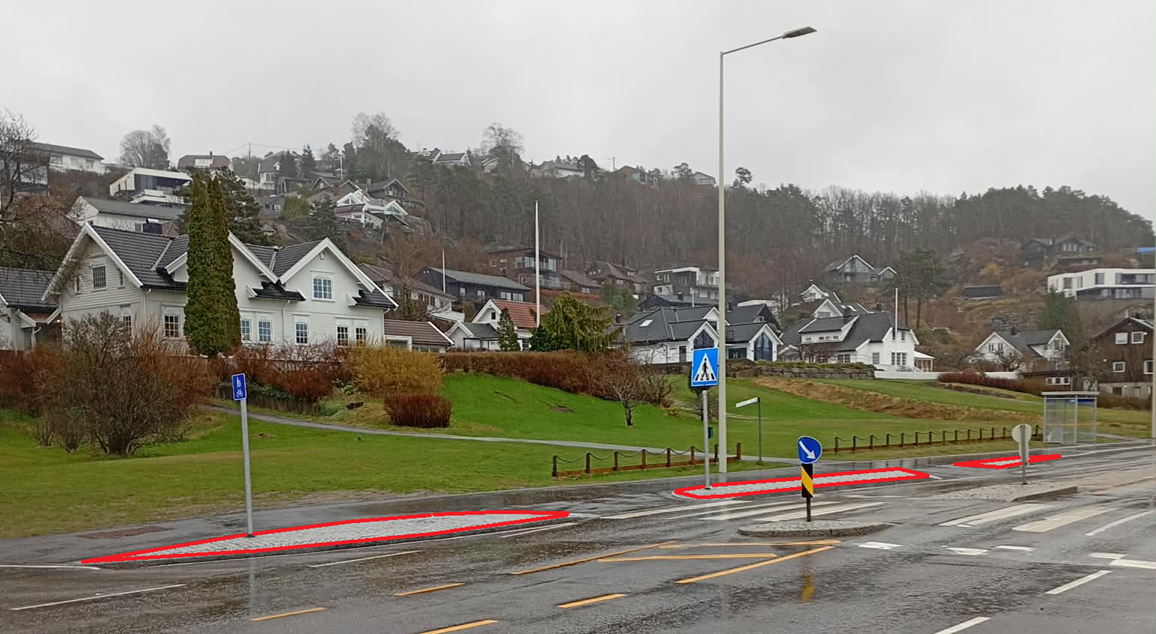
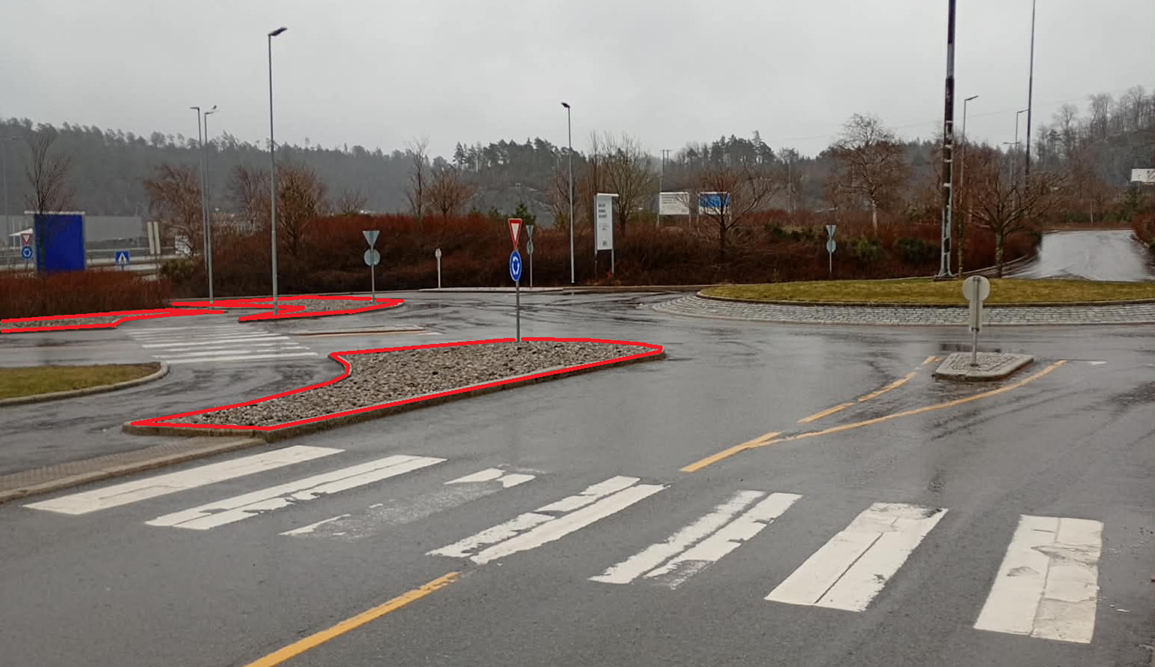
Endret bilde og slettet avsnitt i Vedlegg
Endret bilde for illustrasjon av trafikkøy. Sletta avsnitt om endring av TYPEVEG for VegGåendeOgSyklende og VegKjørende, da disse utsettes.

diff --git a/registreringsinstrukser/vedlegg/Vedlegg_Fotogrammetrisk_FKB_2026.html b/registreringsinstrukser/vedlegg/Vedlegg_Fotogrammetrisk_FKB_2026.html
@@ -487,8 +487,6 @@ body.book #toc,body.book #preamble,body.book h1.sect0,body.book .sect1>h2{page-b
 <ul class="sectlevel3">
 <li><a href="#_presisering_om_henvisninger_til_elveg_2">2.6.1. Presisering om henvisninger til Elveg</a></li>
 <li><a href="#_presisering_for_objekttypen_trafikkøy">2.6.2. Presisering for objekttypen Trafikkøy</a></li>
-<li><a href="#_presisering_for_objekttypen_veggåendeogsyklende">2.6.3. Presisering for objekttypen VegGåendeOgSyklende</a></li>
-<li><a href="#_presisering_for_objekttypen_vegkjørende">2.6.4. Presisering for objekttypen VegKjørende</a></li>
 </ul>
 </li>
 <li><a href="#Elveg">2.7. NVDB Vegnett Pluss</a>
@@ -740,18 +738,6 @@ For fotogrammetriske registreringsinstrukser som ikke ble revidert 2025-01-01 er
 <div class="title">Figur 7. Eksempel på arealer som ikke skal registreres som Trafikkøy.</div>
 </div>
 </div>
-<div class="sect3">
-<h4 id="_presisering_for_objekttypen_veggåendeogsyklende">2.6.3. Presisering for objekttypen VegGåendeOgSyklende</h4>
-<div class="paragraph">
-<p>I kapittel 3.3 Objekttype: VegGåendeOgSyklende presiseres det at egenskapen <em>typeveg</em> skal samsvare med kodeliste for <em>typeveg</em> i NVDB Vegnett Pluss. For VegGåendeOgSyklende betyr dette at <em>typeveg gangSykkel</em> er endret til <em>gsv</em> og <em>typeveg sykkel</em> er endret til <em>sv</em>, samt at <em>sfelt</em> (sykkelfelt) er lagt til kodelisten.</p>
-</div>
-</div>
-<div class="sect3">
-<h4 id="_presisering_for_objekttypen_vegkjørende">2.6.4. Presisering for objekttypen VegKjørende</h4>
-<div class="paragraph">
-<p>I kapittel 3.4 Objekttype: VegKjørende presiseres det at egenskapen <em>typeveg</em> skal samsvare med kodeliste for <em>typeveg</em> i NVDB Vegnett Pluss. For VegKjørende betyr dette at <em>typeveg enkel</em> er endret til <em>bilveg</em>, <em>typeveg kanalisert</em> er endret til <em>kanalveg</em> og <em>typeveg rundkjoring</em> er endret til <em>rkj</em>.</p>
-</div>
-</div>
 </div>
 <div class="sect2">
 <h3 id="Elveg">2.7. NVDB Vegnett Pluss</h3>
@@ -782,7 +768,7 @@ For fotogrammetriske registreringsinstrukser som ikke ble revidert 2025-01-01 er
 </div>
 <div id="footer">
 <div id="footer-text">
-Last updated 2026-04-14 14:07:05 +0200
+Last updated 2026-04-15 11:19:37 +0200
 </div>
 </div>
 </body>
